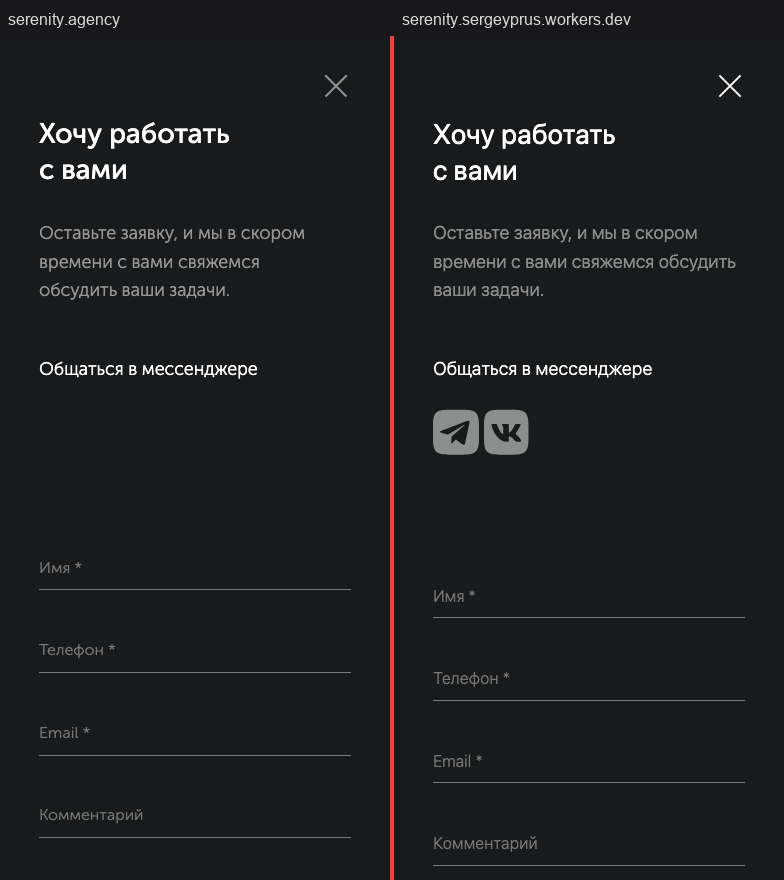
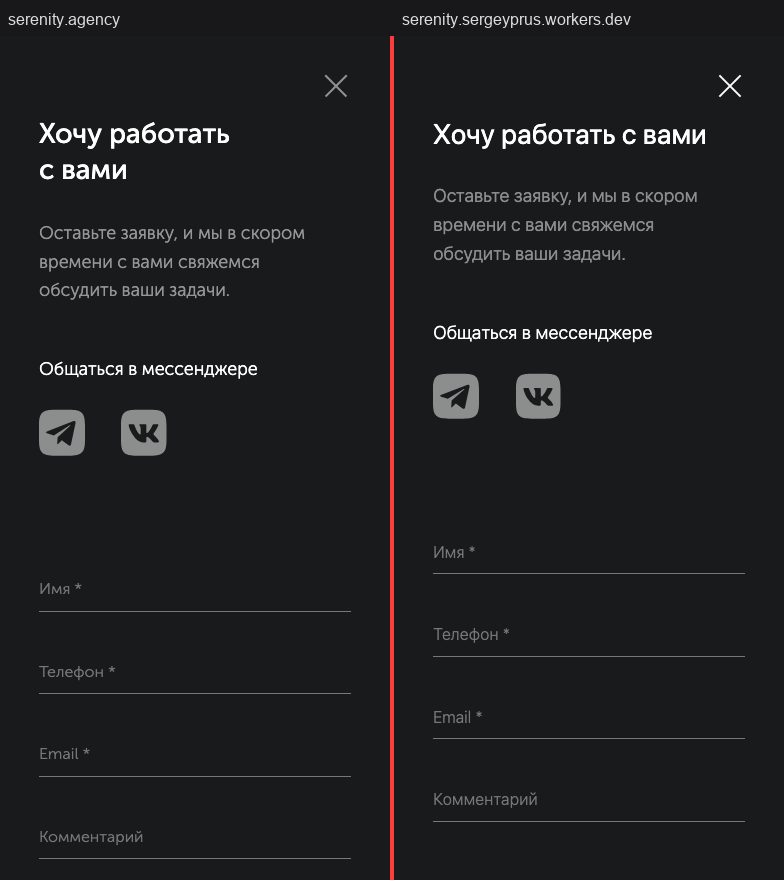
Форма: финальная подстройка мобильного ритма для сравнения с оригиналом
Made-with: Cursor

diff --git a/css/sections/lead-form.css b/css/sections/lead-form.css
@@ -370,7 +370,7 @@ body.order-popup-open .overlay-new {
     font-weight: 400 !important;
     letter-spacing: normal !important;
     color: #fff !important;
-    max-width: 282px !important;
+    max-width: 260px !important;
     margin: 0 0 30px !important;
   }
 
@@ -381,7 +381,7 @@ body.order-popup-open .overlay-new {
     font-weight: 300 !important;
     color: rgba(255, 255, 255, 0.5) !important;
     margin: 0 !important;
-    max-width: 282px !important;
+    max-width: none !important;
   }
 
   #desktop-order-popup .contact-form__messenger[data-v-2ee28934] {
@@ -397,7 +397,6 @@ body.order-popup-open .overlay-new {
 
   #desktop-order-popup .contact-form__messenger-links {
     display: block !important;
-    line-height: 0 !important;
   }
 
   #desktop-order-popup .contact-form__messenger-links a {
@@ -410,11 +409,6 @@ body.order-popup-open .overlay-new {
     min-width: 0 !important;
     min-height: 0 !important;
     margin: 0 !important;
-    vertical-align: top !important;
-  }
-
-  #desktop-order-popup .contact-form__messenger-links a + a {
-    margin-left: 32px !important;
   }
 
   #desktop-order-popup .contact-form__messenger-links a img {